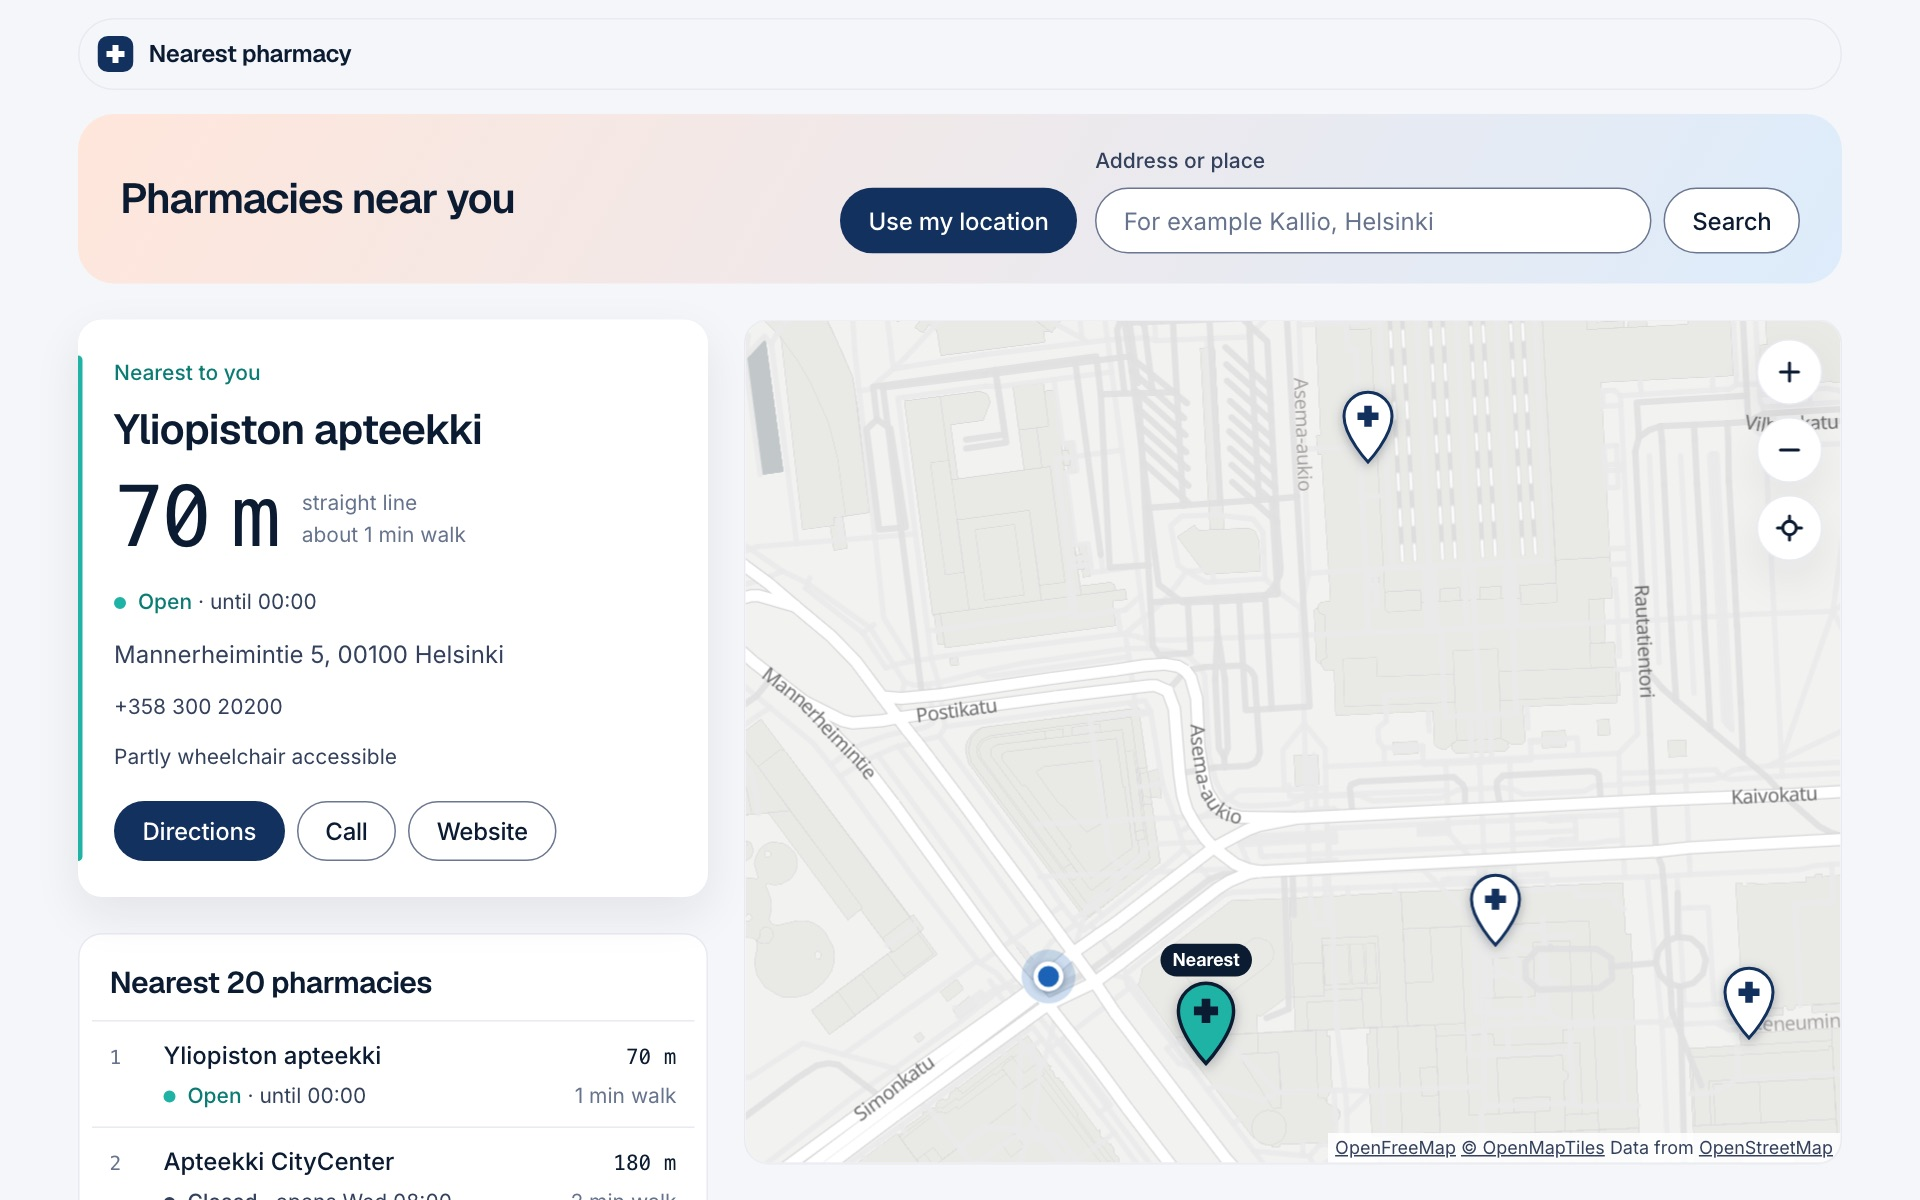
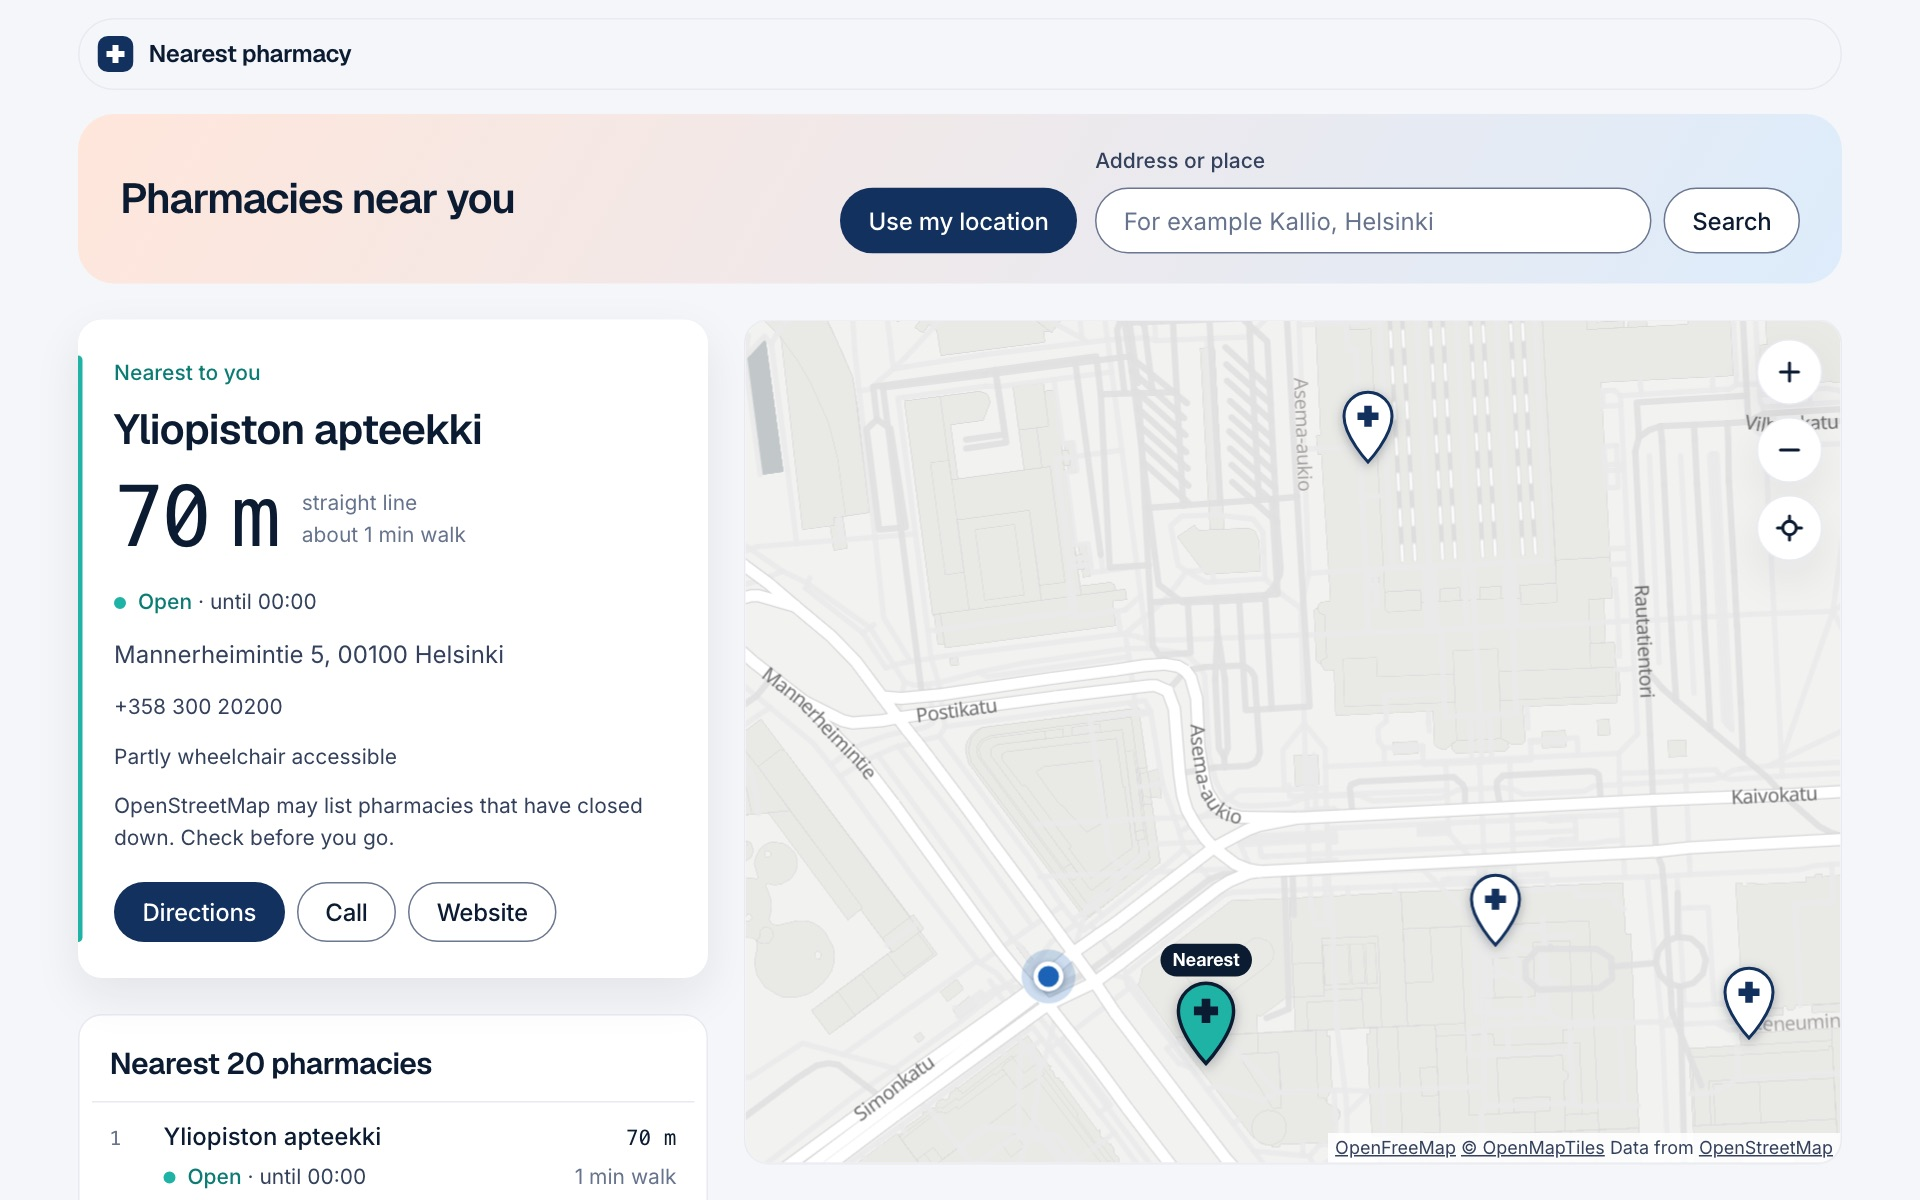
Update the README note on holidays and the screenshot

diff --git a/web/README.md b/web/README.md
@@ -45,7 +45,7 @@ Directions opens Google Maps; for a searched address, its coordinates go along a
   real product would need its own Nominatim.
 - **Unknown is not closed.** Missing hours show "Hours unavailable". Hours that can't be evaluated are
   shown as listed: unparseable ones, public or school holiday rules (they depend on the country) and
-  sunrise or sunset. Other hours ignore holidays, so the page says to call ahead.
+  sunrise or sunset. Other hours ignore holidays, and the page says so.
 - **The pharmacy's time zone.** Hours are evaluated where the pharmacy is, so searching another
   city gives the right answer.
 - **OpenStreetMap data is untrusted.** It is rendered as text only, and links must be http(s).
